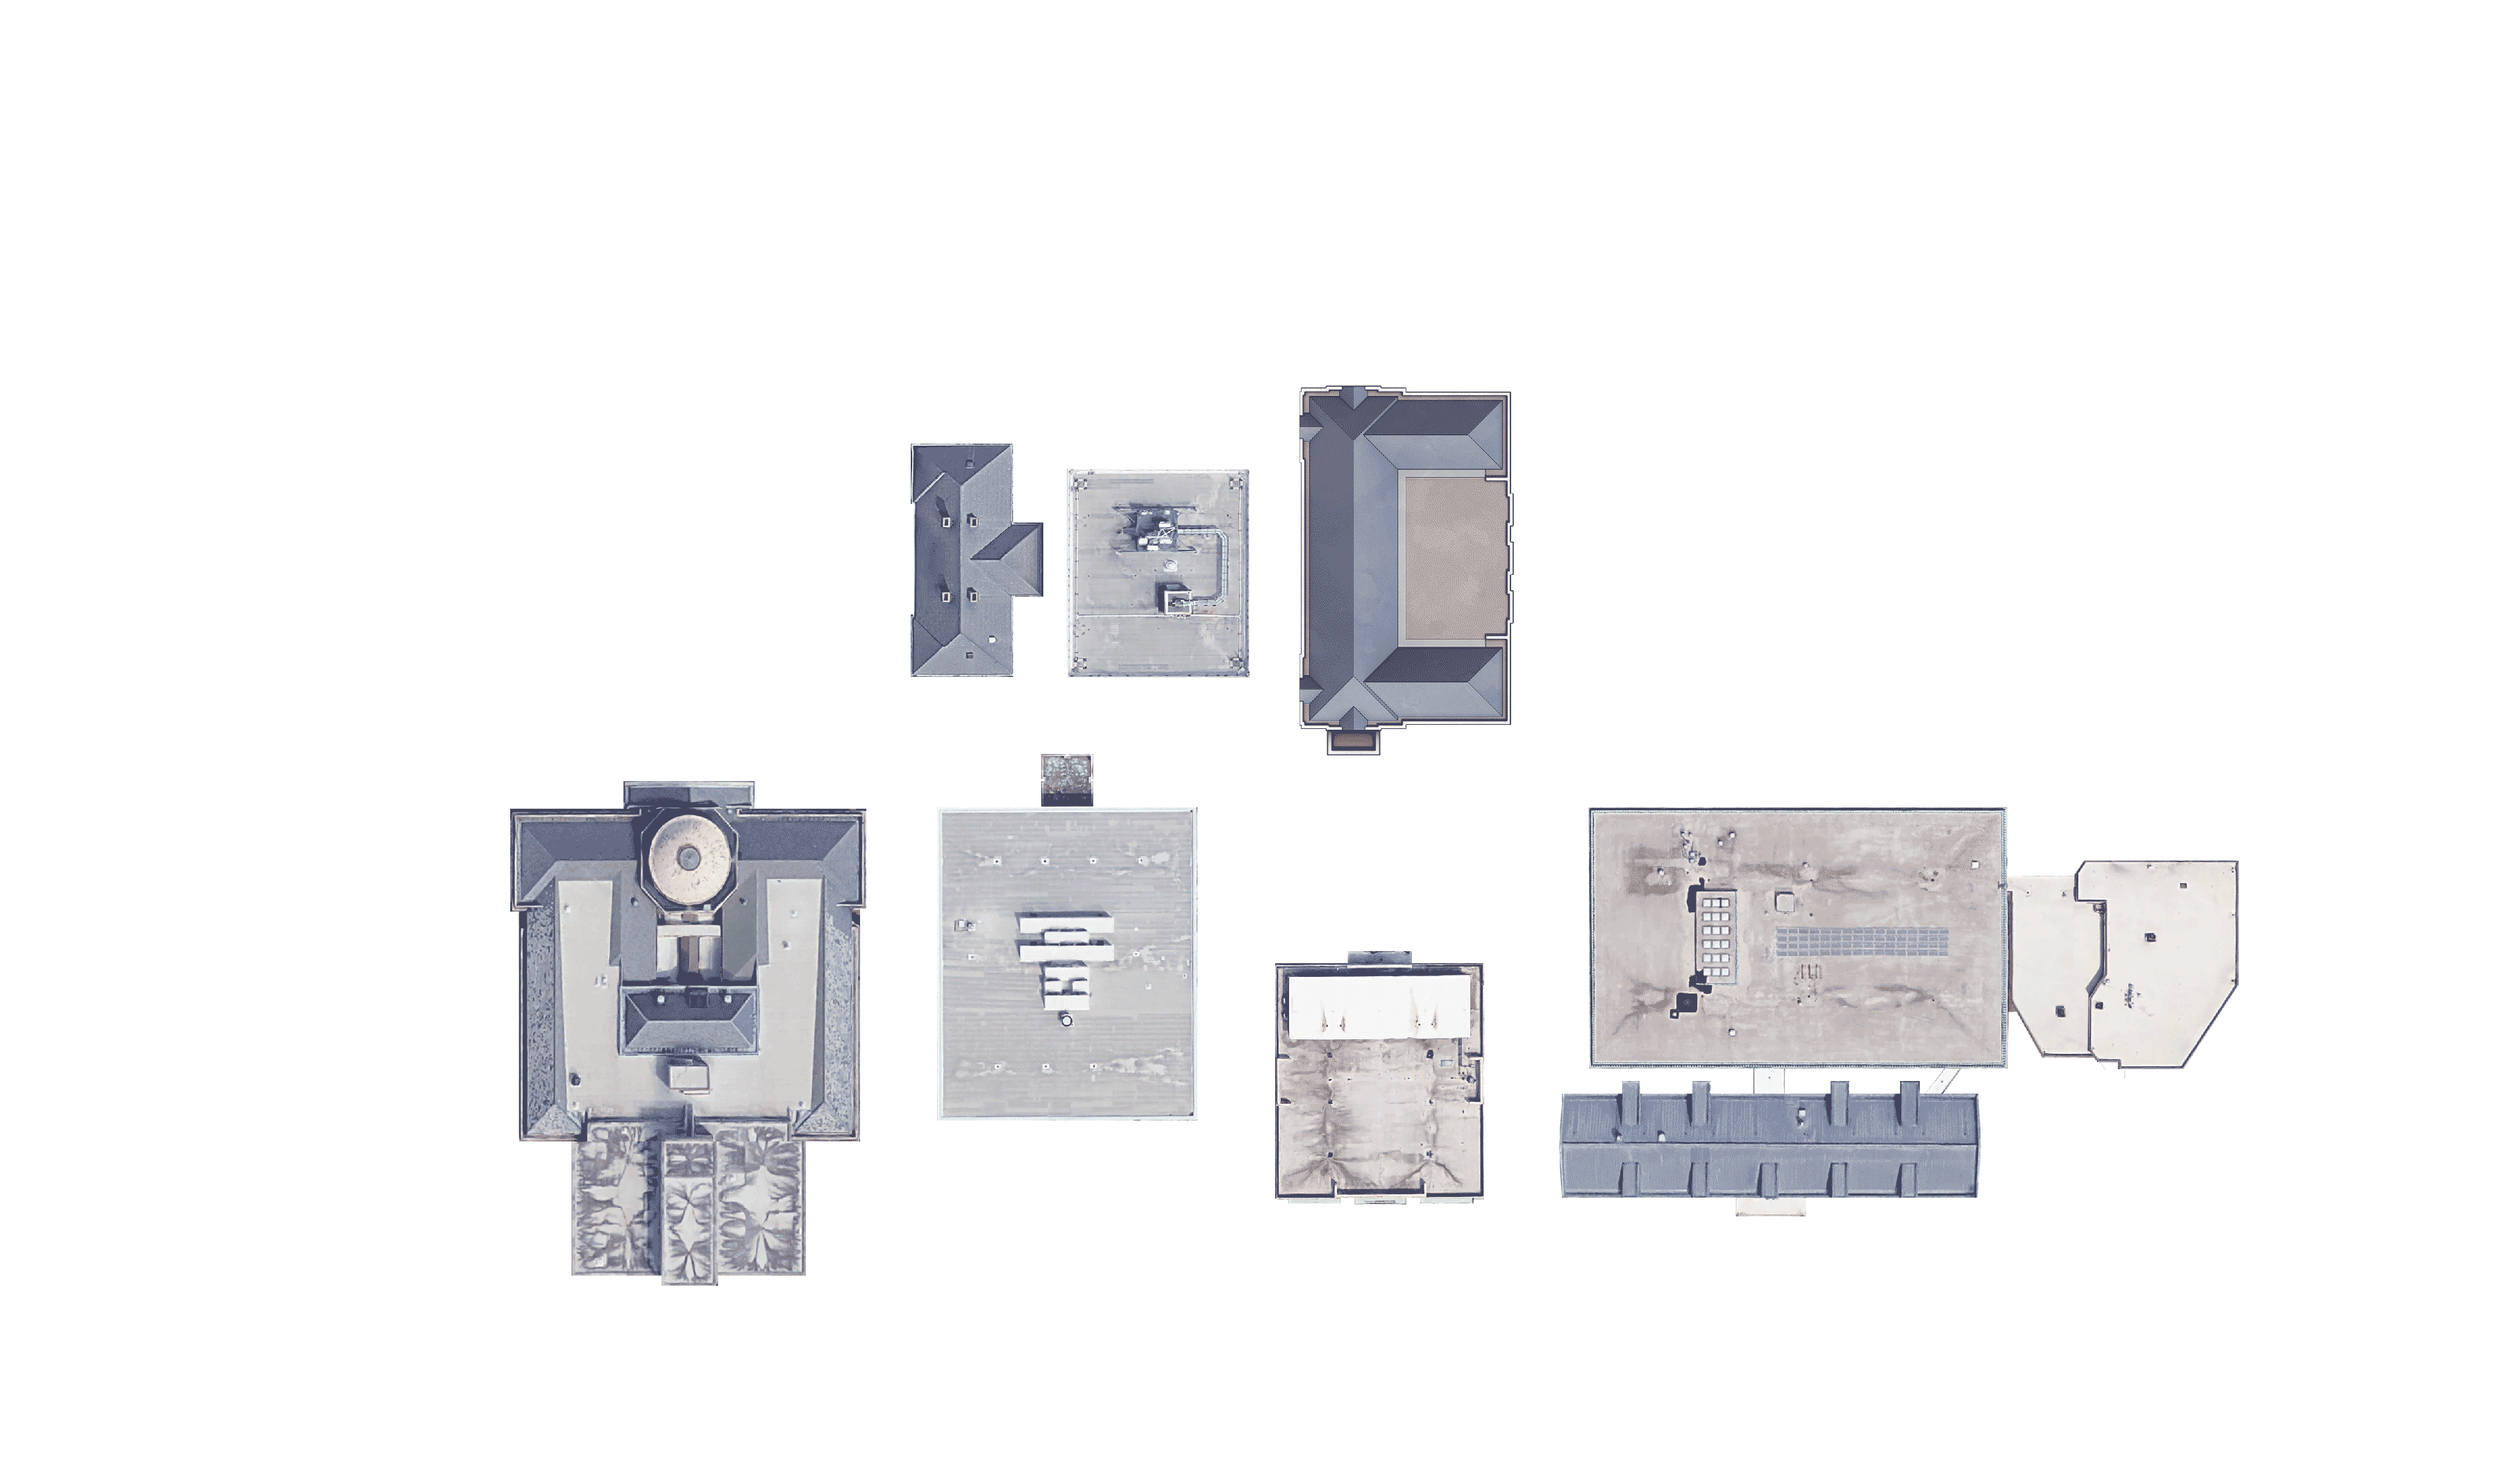
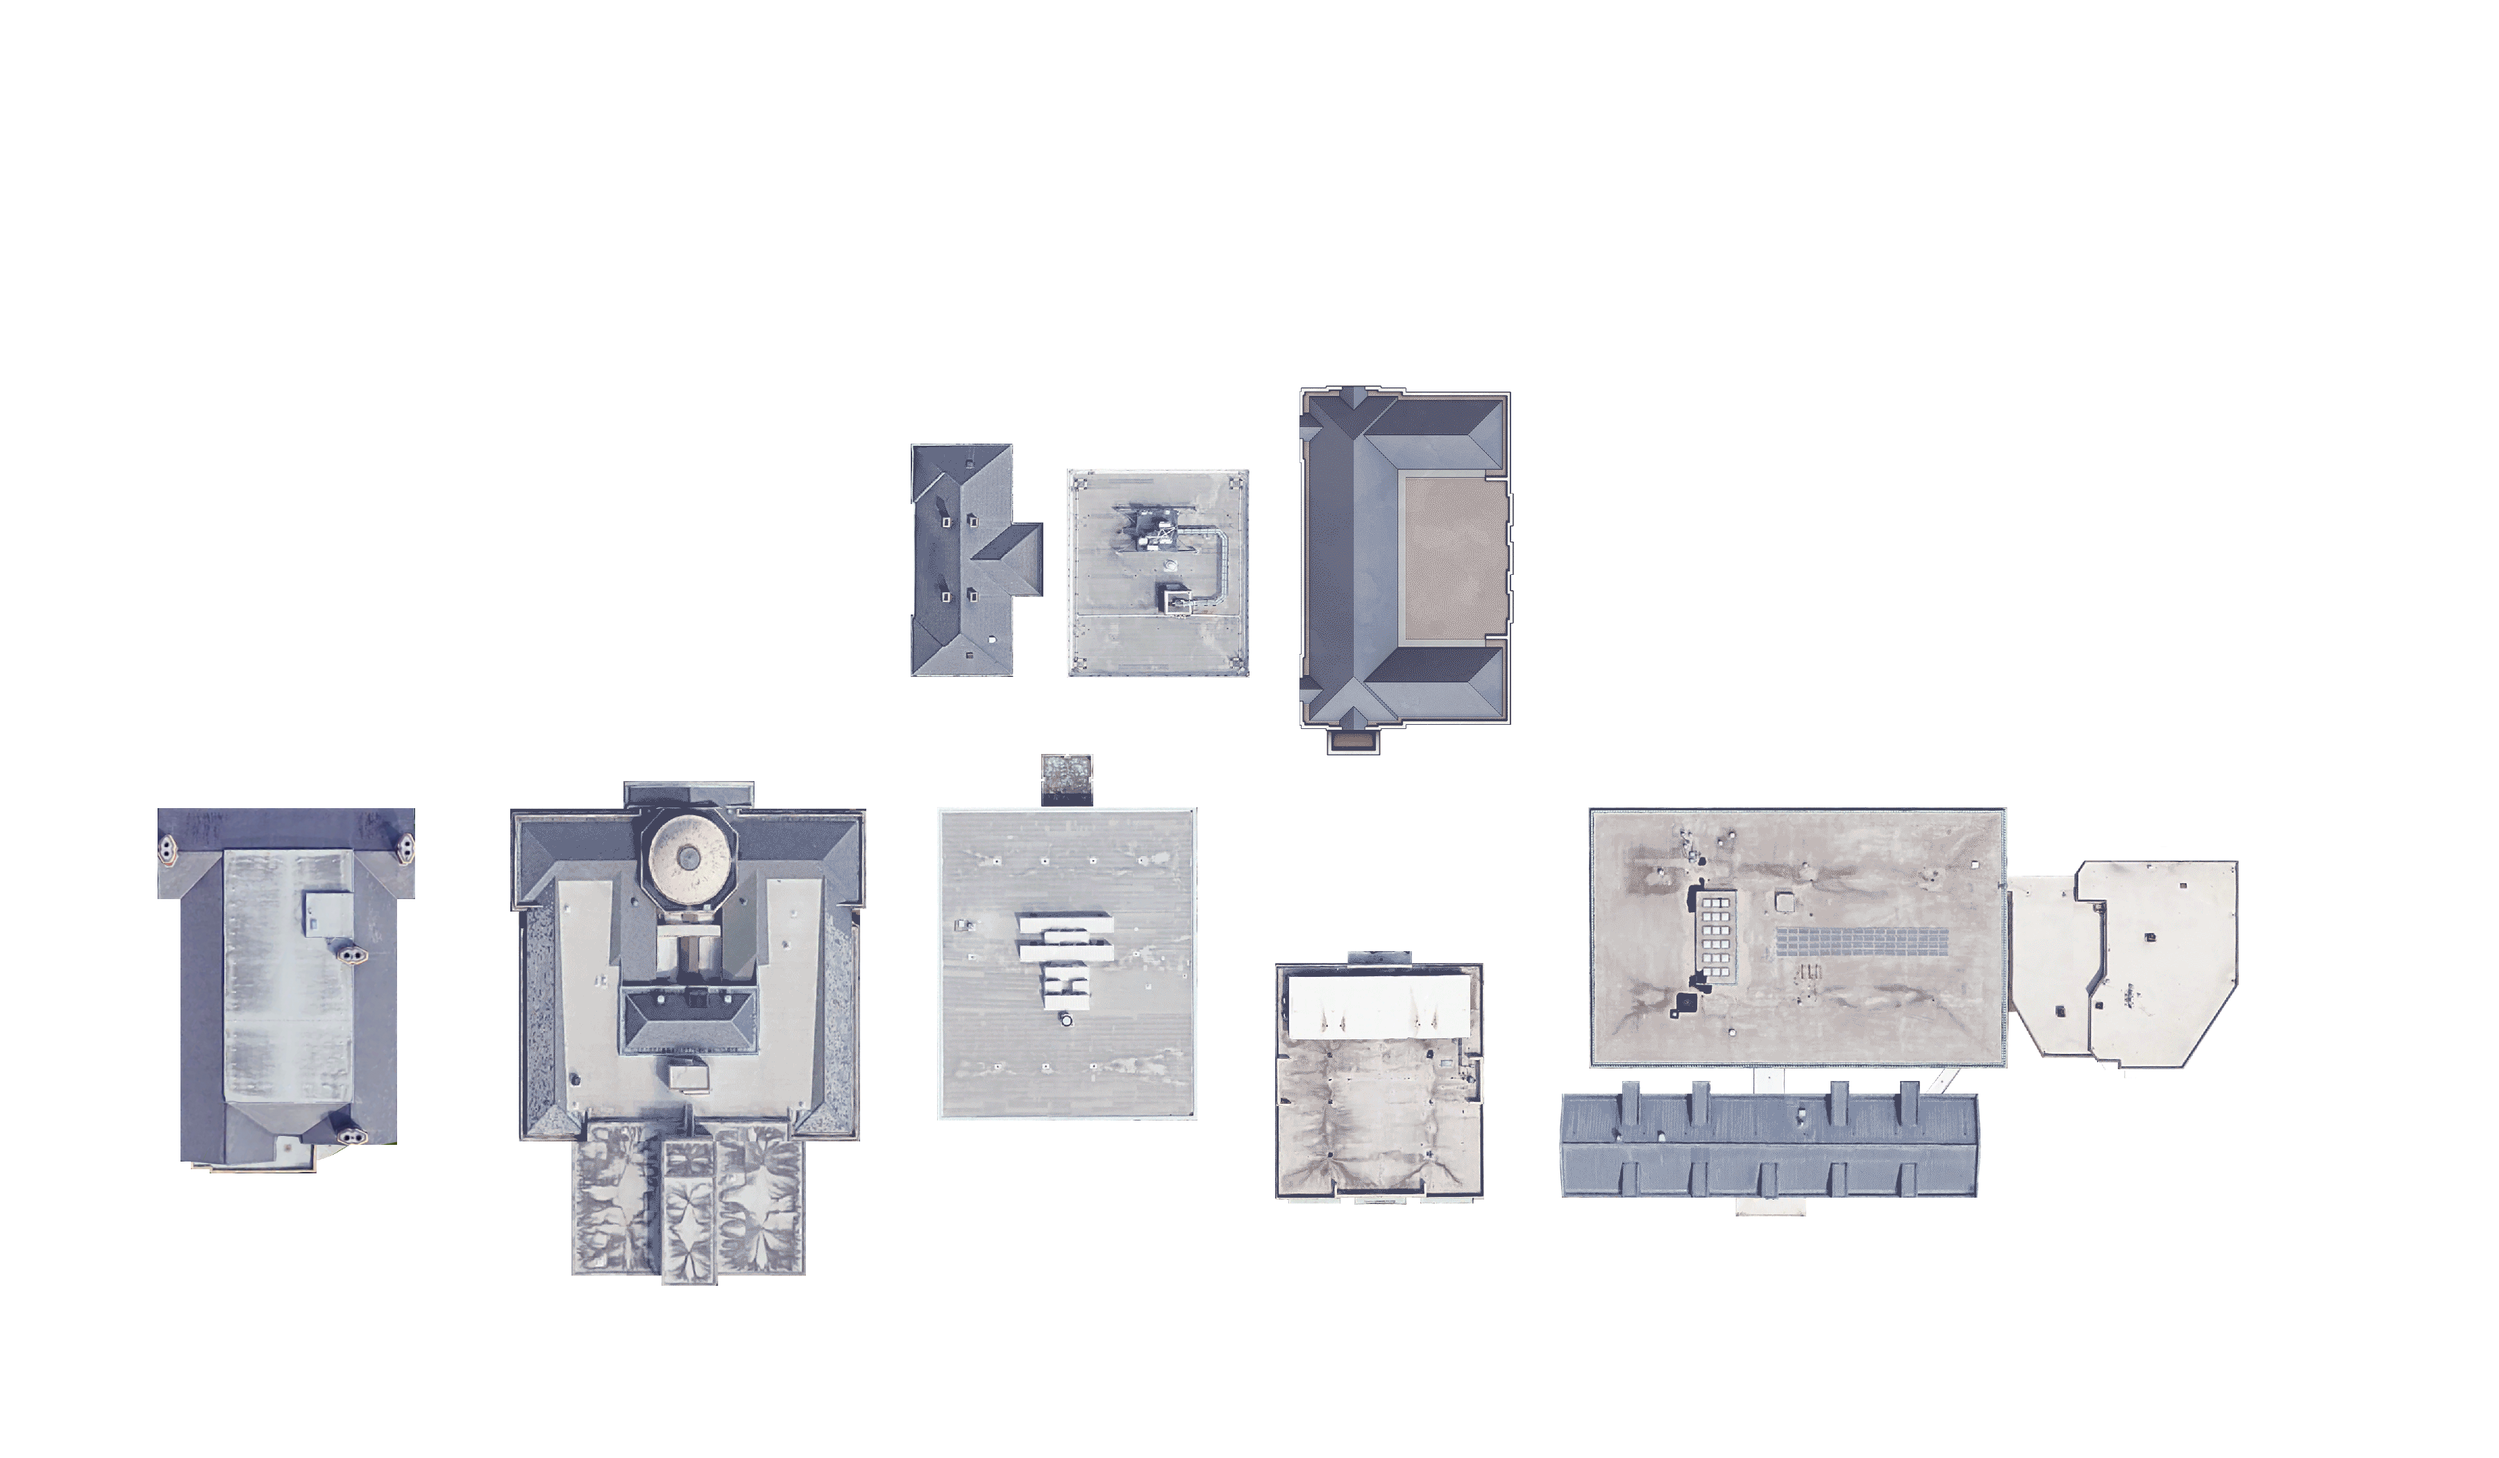
Added Caudill Labs

Changed region(s): [[0.0622, 0.5571, 0.1867, 0.8048]]

diff --git a/index.html b/index.html
@@ -141,6 +141,7 @@
                     <img id="bingham" src="img/bingham.png" class="overlay">
                     <img id="wilson1" src="img/wilson_01.png" class="overlay">
                     <img id="wilson2" src="img/wilson_02.png" class="overlay">
+                    <img id="caudill" src="img/caudill.png" class="overlay">
 
                     <img id="collision_border" src="img/collision_border.png" class="overlay">
                 </div> 

diff --git a/css/style.css b/css/style.css
@@ -407,6 +407,15 @@ body {
     z-index: 10;
 }
 
+#caudill.overlay {
+    position: absolute;
+    height: calc(16 * 50px);
+    width: calc(12 * 50px);
+    top: calc(30 * 50px);
+    left: calc(5 * 50px);
+    z-index: 10;
+}
+
 #minimap {
     width: 200px;
     height: 117px;
